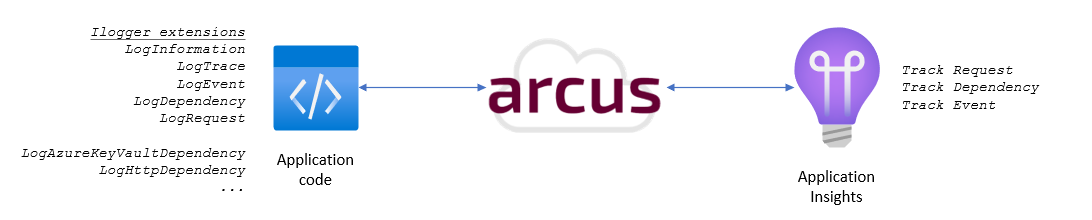
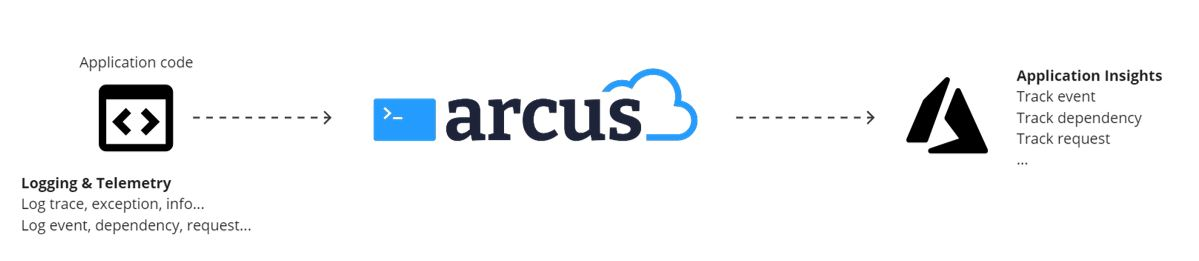
chore: update frontend brand

diff --git a/docs/src/css/custom.css b/docs/src/css/custom.css
@@ -7,30 +7,44 @@
 
 /* You can override the default Infima variables here. */
 :root {
-  --ifm-color-primary: #0098CC;
-  --ifm-color-primary-dark: #0076AF;
-  --ifm-color-primary-darker: #005892;
-  --ifm-color-primary-darkest: #003F76;
-  --ifm-color-primary-light: #38C1E0;
-  --ifm-color-primary-lighter: #5FDFEF;
-  --ifm-color-primary-lightest: #95F5F9;
+  --ifm-color-primary: #248eff;
+  --ifm-color-primary-dark: #078fff;
+  --ifm-color-primary-darker: #0088f7;
+  --ifm-color-primary-darkest: #006cc6;
+  --ifm-color-primary-light: #47acff;
+  --ifm-color-primary-lighter: #55b2ff;
+  --ifm-color-primary-lightest: #81c6ff;
 
-  --ifm-color-secondary: #CACAD2;
-  --ifm-color-secondary-dark: #9F9FAC;
-  --ifm-color-secondary-darker: #9F9FAC;
+  --ifm-color-secondary: #cacad2;
+  --ifm-color-secondary-dark: #9f9fac;
+  --ifm-color-secondary-darker: #9f9fac;
   --ifm-color-secondary-darkest: #666675;
-  --ifm-color-secondary-light: #E9E9F0;
-  --ifm-color-secondary-lighter: #F4F4F7;
-  --ifm-color-secondary-lightest: #F4F4F7;
+  --ifm-color-secondary-light: #e9e9f0;
+  --ifm-color-secondary-lighter: #f4f4f7;
+  --ifm-color-secondary-lightest: #f4f4f7;
 
-  --ifm-color-warning: #FF970F;
-  --ifm-color-warning-dark: #DB770A;
-  --ifm-color-warning-darker: #B75B07;
+  --ifm-color-warning: #ff970f;
+  --ifm-color-warning-dark: #db770a;
+  --ifm-color-warning-darker: #b75b07;
   --ifm-color-warning-darkest: #934304;
-  --ifm-color-warning-light: #FFB84B;
-  --ifm-color-warning-lighter: #FFCD6F;
-  --ifm-color-warning-lightest: #FFE29F;
+  --ifm-color-warning-light: #ffb84b;
+  --ifm-color-warning-lighter: #ffcd6f;
+  --ifm-color-warning-lightest: #ffe29f;
   --ifm-code-font-size: 95%;
+
+  --ifm-color-gray-100: #e9edfa;
+  --ifm-color-gray-200: #d5daec;
+  --ifm-color-gray-300: #ccd1e3;
+  --ifm-color-gray-400: #a6aecb;
+  --ifm-color-gray-500: #8b95b8;
+  --ifm-color-gray-600: #575f82;
+  --ifm-color-gray-700: #444b6d;
+  --ifm-color-gray-800: #242b47;
+  --ifm-color-gray-900: #1d2338;
+
+  --ifm-navbar-shadow: 0 1px 2px 0 var(--ifm-color-primary);
+  --ifm-toc-border-color: var(--ifm-color-primary);
+  --ifm-global-spacing: 1.5rem;
 }
 
 .docusaurus-highlight-code-line {
@@ -41,34 +55,79 @@
 }
 
 .alert {
-  background-color: var(--ifm-alert-background-color)!important;
+  background-color: var(--ifm-alert-background-color) !important;
 }
 
 html[data-theme='dark'] .docusaurus-highlight-code-line {
-  background-color: rgba(0, 0, 0, 0.3);
+  background-color: var(--ifm-color-gray-800);
 }
 
-html[data-theme='dark'] .prism-code {
-  background-color: rgb(45, 51, 59)!important;
+html[data-theme='dark'] code {
+  background-color: var(--ifm-color-gray-800);
 }
 
-html[data-theme='dark'] main img[src$=".png"] {
-  background-color:white;
+html[data-theme='dark'] main img[src$='.png'] {
+  background-color: white;
 }
-
 
 html[data-theme='dark'] {
-  --ifm-background-color: rgb(34, 39, 46);
-  --ifm-color-primary:#0098cc;
+  --ifm-background-color: var(--ifm-color-gray-900);
+  --ifm-color-primary: #249cff;
 
-  --ifm-navbar-background-color: rgb(45, 51, 59)
+  --ifm-navbar-background-color: var(--ifm-color-gray-800);
+}
+
+.footer--dark {
+  background-color: var(--ifm-color-gray-800);
 }
 
 html[data-theme='dark'] .footer--dark {
-  background-color: rgb(45, 51, 59);
+  background-color: var(--ifm-color-gray-800);
+  border-top: 1px solid var(--ifm-color-primary);
 }
 
 .navbar__brand img {
-  width: 75px;
+  width: 110px;
   height: auto;
+  margin-right: 10px;
+  margin-bottom: 5px;
+}
+
+html {
+  font-family: 'Inter';
+  font-weight: normal;
+}
+
+h1,
+h2,
+h3,
+h4,
+h5 {
+  font-family: 'Bitter';
+  line-height: 110%;
+}
+
+h1 {
+  margin-top: 0.25rem;
+}
+
+p,
+.theme-doc-markdown li {
+  font-size: 1.1rem;
+  line-height: 150%;
+}
+
+strong,
+.navbar__title {
+  font-family: 'Bitter';
+}
+
+.navbar__title {
+  font-size: 1rem;
+  align-self: baseline;
+  margin-top: 8px;
+}
+
+nav.menu {
+  padding: 1rem;
 }

diff --git a/docs/src/prism/dark.js b/docs/src/prism/dark.js
@@ -1,0 +1,111 @@
+('use strict');
+
+// Original: https://github.com/sdras/night-owl-vscode-theme
+
+var theme = {
+  plain: {
+    color: '#e9edfa',
+    backgroundColor: '#19203d',
+  },
+  styles: [
+    {
+      types: ['changed'],
+      style: {
+        color: 'rgb(162, 191, 252)',
+        fontStyle: 'italic',
+      },
+    },
+    {
+      types: ['deleted'],
+      style: {
+        color: 'hsl(5, 74%, 69%)',
+        fontStyle: 'italic',
+      },
+    },
+    {
+      types: ['inserted', 'attr-name'],
+      style: {
+        color: 'hsl(119, 34%, 67%)',
+        fontStyle: 'italic',
+      },
+    },
+    {
+      types: ['comment'],
+      style: {
+        color: 'hsl(230, 4%, 74%)',
+        fontStyle: 'italic',
+      },
+    },
+    {
+      types: ['string', 'url'],
+      style: {
+        color: 'hsl(119, 34%, 67%)',
+      },
+    },
+    {
+      types: ['variable'],
+      style: {
+        color: '#47acff',
+      },
+    },
+    {
+      types: ['number'],
+      style: {
+        color: 'hsl(35, 99%, 66%)',
+      },
+    },
+    {
+      types: ['builtin', 'char', 'constant', 'function', 'operator'],
+      style: {
+        color: '#47acff',
+      },
+    },
+    {
+      // This was manually added after the auto-generation
+      // so that punctuations are not italicised
+      types: ['punctuation'],
+      style: {
+        color: '#e9edfa',
+      },
+    },
+    {
+      types: ['selector', 'doctype'],
+      style: {
+        color: '#e9edfa',
+        fontStyle: 'italic',
+      },
+    },
+    {
+      types: ['class-name'],
+      style: {
+        color: 'hsl(35, 99%, 66%)',
+      },
+    },
+    {
+      types: ['tag', 'keyword'],
+      style: {
+        color: 'hsl(301, 63%, 80%)',
+      },
+    },
+    {
+      types: ['boolean'],
+      style: {
+        color: 'hsl(35, 99%, 66%)',
+      },
+    },
+    {
+      types: ['property'],
+      style: {
+        color: 'hsl(5, 74%, 69%)',
+      },
+    },
+    {
+      types: ['namespace'],
+      style: {
+        opacity: 0.8,
+      },
+    },
+  ],
+};
+
+module.exports = theme;

diff --git a/docs/src/prism/light.js b/docs/src/prism/light.js
@@ -1,0 +1,111 @@
+('use strict');
+
+// Original: https://github.com/sdras/night-owl-vscode-theme
+
+var theme = {
+  plain: {
+    color: '#19203d',
+    backgroundColor: '#f6f8fa',
+  },
+  styles: [
+    {
+      types: ['changed'],
+      style: {
+        color: 'rgb(162, 191, 252)',
+        fontStyle: 'italic',
+      },
+    },
+    {
+      types: ['deleted'],
+      style: {
+        color: 'hsl(5, 74%, 59%)',
+        fontStyle: 'italic',
+      },
+    },
+    {
+      types: ['inserted', 'attr-name'],
+      style: {
+        color: 'hsl(119, 34%, 47%)',
+        fontStyle: 'italic',
+      },
+    },
+    {
+      types: ['comment'],
+      style: {
+        color: 'hsl(230, 4%, 64%)',
+        fontStyle: 'italic',
+      },
+    },
+    {
+      types: ['string', 'url'],
+      style: {
+        color: 'hsl(119, 34%, 47%)',
+      },
+    },
+    {
+      types: ['variable'],
+      style: {
+        color: '#249cff',
+      },
+    },
+    {
+      types: ['number'],
+      style: {
+        color: 'hsl(35, 99%, 36%)',
+      },
+    },
+    {
+      types: ['builtin', 'char', 'constant', 'function', 'operator'],
+      style: {
+        color: '#249cff',
+      },
+    },
+    {
+      // This was manually added after the auto-generation
+      // so that punctuations are not italicised
+      types: ['punctuation'],
+      style: {
+        color: '#19203d',
+      },
+    },
+    {
+      types: ['selector', 'doctype'],
+      style: {
+        color: '#19203d',
+        fontStyle: 'italic',
+      },
+    },
+    {
+      types: ['class-name'],
+      style: {
+        color: 'hsl(35, 99%, 36%)',
+      },
+    },
+    {
+      types: ['tag', 'keyword'],
+      style: {
+        color: 'hsl(301, 63%, 40%)',
+      },
+    },
+    {
+      types: ['boolean'],
+      style: {
+        color: 'hsl(35, 99%, 36%)',
+      },
+    },
+    {
+      types: ['property'],
+      style: {
+        color: 'hsl(5, 74%, 59%)',
+      },
+    },
+    {
+      types: ['namespace'],
+      style: {
+        opacity: 0.8,
+      },
+    },
+  ],
+};
+
+module.exports = theme;
